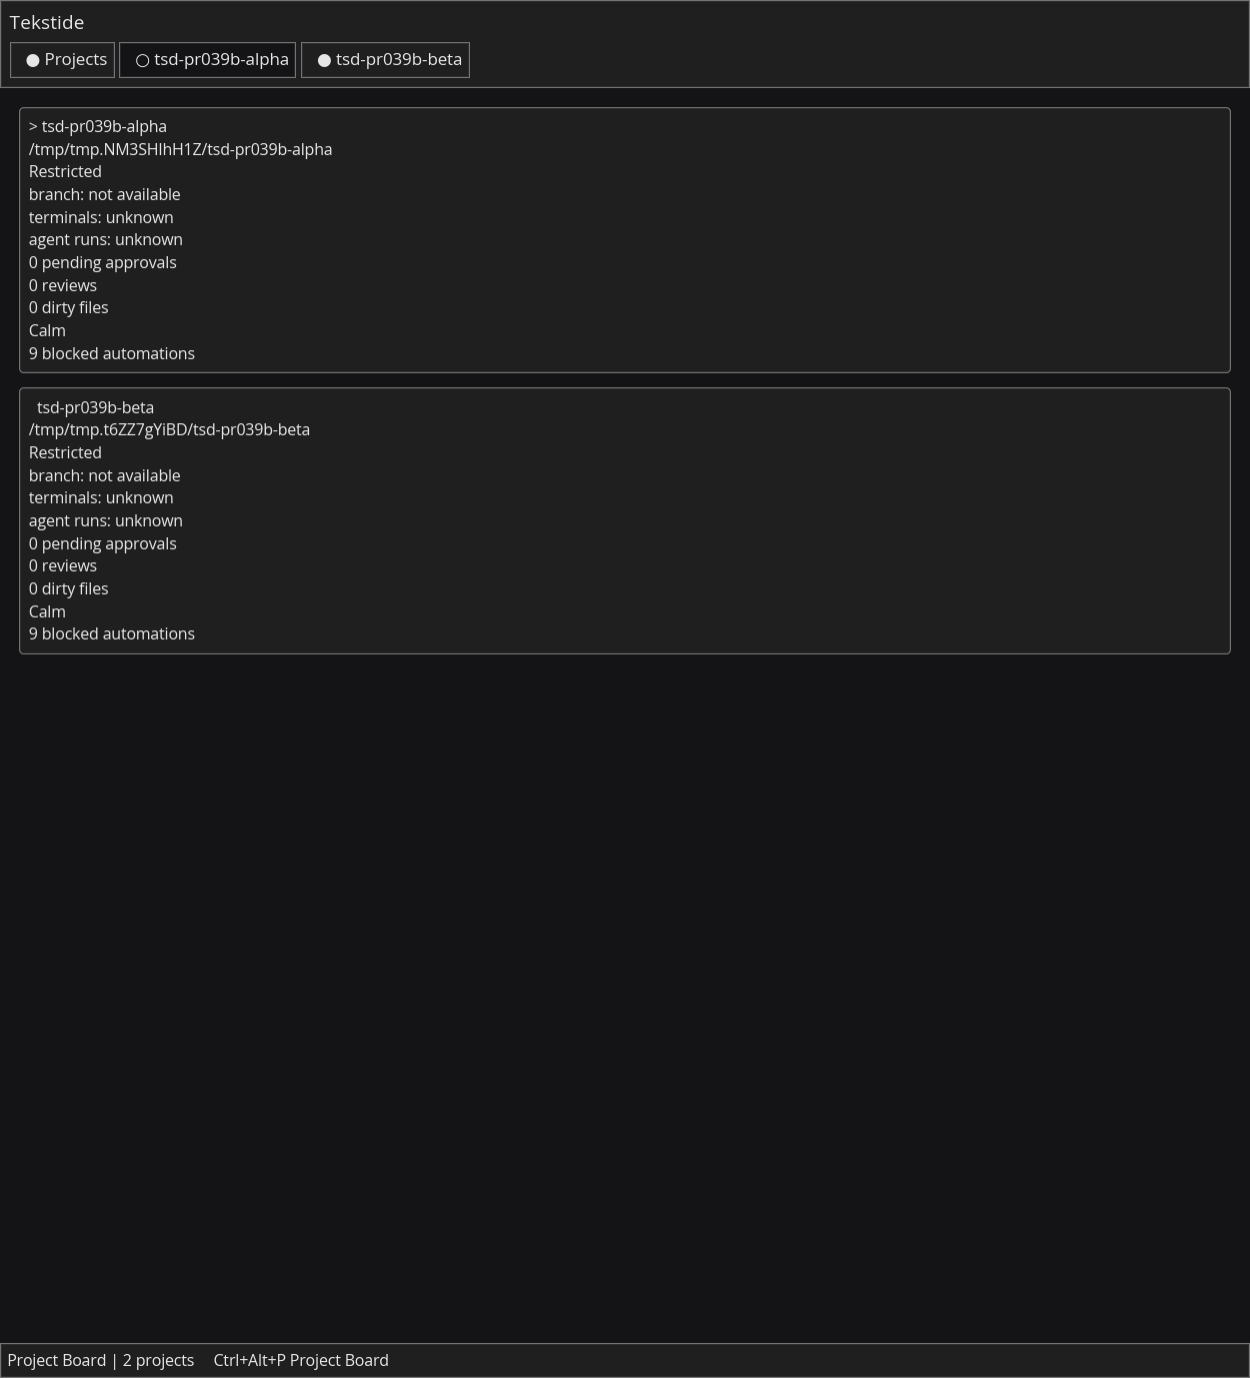
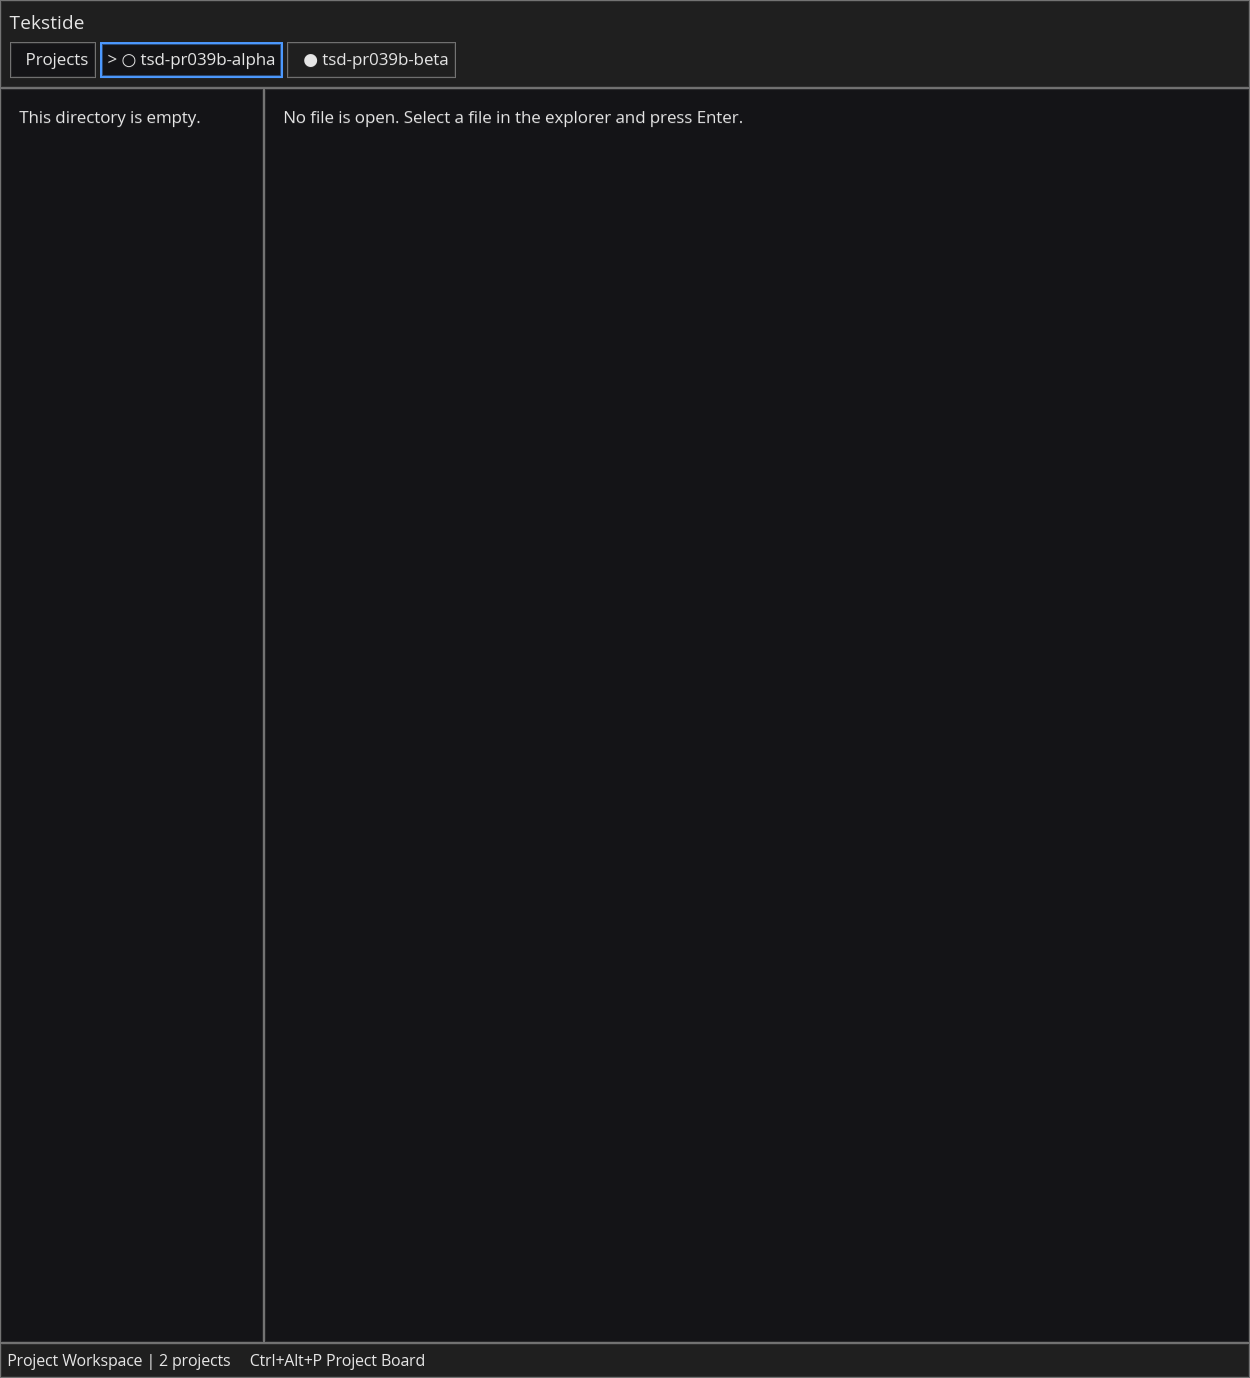
RFC-039 PR-039-B: response 307 -- home tab drops the active-project symbol, required screenshot re-captured
The home tab's ● previously meant a second, different thing (route == ProjectBoard) from
what ● means on every project tab (this is AppState::active_project_id()), so both could
show filled together and read as two active projects. home_tab_label now carries only the
focus marker; 'you are here' still shows through the background-fill channel alone.

Also: the required focused-not-active screenshot did not show what its caption claimed --
the Tab,Tab,ArrowRight sequence had silently had no effect, the same synthetic-focus quirk
already disclosed for the Enter-activation capture but not re-checked here. Re-captured
with the same click-first workaround; all five PR-039-B screenshots re-taken against the
rebuilt binary so they match what actually ships.

Changed region(s): [[0.0, 0.0312, 0.5928, 0.4681], [0.9984, 0.0624, 1.0, 0.9985], [0.0624, 0.9673, 0.3432, 0.9985]]

diff --git a/crates/tekstide/src/shell.rs b/crates/tekstide/src/shell.rs
@@ -4581,8 +4581,7 @@ fn project_tab_strip(state: &State) -> Element<'_, Message> {
     let home_active = state.app_shell.route() == tekstide_core::route::AppRoute::ProjectBoard;
     let home_focused = strip_focused && highlight == 0;
     let home_tab = button(
-        text(home_tab_label(&state.catalog, home_active, home_focused))
-            .size(state.theme.font_size_body()),
+        text(home_tab_label(&state.catalog, home_focused)).size(state.theme.font_size_body()),
     )
     .padding(6)
     .style(tab_active_style(state.theme, home_focused, home_active))
@@ -4642,9 +4641,11 @@ fn tab_active_style(
 /// (a hollow one) otherwise, so a screen or terminal that cannot render
 /// colour still shows which channel means what: `focus_marker`'s `"> "`/
 /// `"  "` prefix for keyboard focus, this one for which project is
-/// actually active. Composed with `focus_marker` by the two callers
-/// ([`project_tab_label`], [`home_tab_label`]), never used alone --
-/// there is always a focus state to render alongside an active one.
+/// actually active. Composed with `focus_marker` by its one caller
+/// ([`project_tab_label`]) -- never used alone, there is always a focus
+/// state to render alongside an active one, and never by
+/// [`home_tab_label`], which is not a project and does not get this
+/// symbol (response 307).
 fn tab_marker(focused: bool, active: bool) -> String {
     let active_symbol = if active { '\u{25CF}' } else { '\u{25CB}' };
     format!("{}{active_symbol} ", focus_marker(focused))
@@ -4687,14 +4688,24 @@ pub(crate) fn project_tab_label(
 /// The permanent leftmost "Projects" tab's own label -- trusted,
 /// catalog-driven text (D1's own workflow 5 name), not filesystem-
 /// derived, so unlike [`project_tab_label`] it is never escaped: there
-/// is nothing untrusted in it to escape. `active` is true exactly when
-/// `route() == ProjectBoard` -- the same "which one are you looking at"
-/// honesty every other active/focus marker in this strip gives a real
-/// project.
-pub(crate) fn home_tab_label(catalog: &Catalog, active: bool, focused: bool) -> String {
+/// is nothing untrusted in it to escape.
+///
+/// Deliberately carries only [`focus_marker`], not [`tab_marker`]'s
+/// `"\u{25CF}"`/`"\u{25CB}"` pair (response 307's own finding): that
+/// symbol's one meaning everywhere else in the strip is "this is
+/// `AppState::active_project_id()`", a fact about a project session.
+/// The home tab is not a project session, so giving it the same symbol
+/// for a different fact ("`route() == ProjectBoard`") reads as a second
+/// active project when the board is showing -- two filled circles
+/// answering two different questions the same way. "You are here" is
+/// still shown, honestly, through [`tab_active_style`]'s own background
+/// fill and border (`project_tab_strip` passes `home_active` there
+/// unchanged) -- just not through the symbol reserved for project
+/// identity.
+pub(crate) fn home_tab_label(catalog: &Catalog, focused: bool) -> String {
     format!(
         "{}{}",
-        tab_marker(focused, active),
+        focus_marker(focused),
         catalog.get("project-tab-strip-home")
     )
 }

diff --git a/crates/tekstide/src/shell/tests.rs b/crates/tekstide/src/shell/tests.rs
@@ -9285,16 +9285,31 @@ fn project_tab_label_truncates_a_long_display_name_with_an_ellipsis_marker() {
 }
 
 /// The home tab's own label is trusted, catalog-driven text -- no
-/// escaping applies (there is nothing untrusted in it), but it still
-/// carries the same marker composition every project tab does.
+/// escaping applies (there is nothing untrusted in it). Unlike a
+/// project tab it carries only the focus marker, deliberately never
+/// `tab_marker`'s active-project symbol (response 307): that symbol
+/// means "this is `AppState::active_project_id()`" everywhere else in
+/// the strip, a claim the home tab -- not a project -- must not make.
 #[test]
-fn home_tab_label_carries_the_catalog_text_and_the_marker() {
+fn home_tab_label_carries_the_catalog_text_and_only_the_focus_marker() {
     let catalog = Catalog::resolve(LocalePreference::default(), Some(&real_locales_dir()));
 
-    let label = super::home_tab_label(&catalog, true, true);
+    let focused = super::home_tab_label(&catalog, true);
+    let unfocused = super::home_tab_label(&catalog, false);
 
-    assert!(label.contains(&catalog.get("project-tab-strip-home")));
-    assert!(label.starts_with("> \u{25CF} "));
+    assert!(focused.contains(&catalog.get("project-tab-strip-home")));
+    assert_eq!(
+        focused,
+        format!("> {}", catalog.get("project-tab-strip-home"))
+    );
+    assert_eq!(
+        unfocused,
+        format!("  {}", catalog.get("project-tab-strip-home"))
+    );
+    assert!(
+        !focused.contains('\u{25CF}') && !focused.contains('\u{25CB}'),
+        "the home tab must never render the active-project symbol: {focused:?}"
+    );
 }
 
 // RFC-039 PR-039-B: switching, and going home -- both mouse- and

diff --git a/rfcs/handoffs/039-interaction-model-and-visible-affordances/qa-evidence.md b/rfcs/handoffs/039-interaction-model-and-visible-affordances/qa-evidence.md
@@ -105,6 +105,19 @@ legible at once is the common case (a tab that is both focused and active) and t
 tab focused, a different tab active) alike -- see `focused-tab-distinct-from-active-tab.png`
 below.
 
+**Response 307's required correction and its own follow-on fix.** The home tab's `active` symbol
+does not mean the same thing a project tab's does. `home_tab_label` no longer calls `tab_marker`
+at all -- it carries only `focus_marker`, never `"●"`/`"○"`. `"●"` means one thing everywhere it
+appears now: "this is `AppState::active_project_id()`", a fact about a project session, which the
+home tab is not. "You are on the board" is still shown, honestly, through `tab_active_style`'s
+background fill alone (`project_tab_strip` still passes `home_active` there unchanged) -- just not
+through the symbol reserved for project identity. Response 307 also caught that
+`focused-tab-distinct-from-active-tab.png` did not show what its own caption claimed (no tab in
+that frame was actually focused) -- the same synthetic-focus quirk described below for the
+Enter-activation capture, hit on a neighbouring capture and not re-checked there. All five
+screenshots in this section were re-captured against the rebuilt binary after both fixes; the
+descriptions below match what is actually in each file.
+
 **`FocusZone::TabStrip` and the reviewed router.** `route_non_modal_input`'s precedence is
 unchanged: global keybinding match, then `Tab`/`Shift+Tab` (shell focus-cycle, never reaches a
 surface), then `terminal_focus` if set, then `RoutedInput::Surface`. `#[non_exhaustive]` has no
@@ -146,9 +159,11 @@ clean.
   distinct (see ablation above).
 - `project_tab_label_escapes_a_bidi_override_in_the_display_name`,
   `an_ordinary_project_tab_name_renders_without_any_escape_marker`,
-  `project_tab_label_truncates_a_long_display_name_with_an_ellipsis_marker`,
-  `home_tab_label_carries_the_catalog_text_and_the_marker` -- PR-039-A's escaping/truncation
-  proofs, carried forward against the renamed, now-focus-aware label functions.
+  `project_tab_label_truncates_a_long_display_name_with_an_ellipsis_marker` -- PR-039-A's
+  escaping/truncation proofs, carried forward against the renamed, now-focus-aware label
+  functions.
+- `home_tab_label_carries_the_catalog_text_and_only_the_focus_marker` -- response 307's fix:
+  proves the home tab's label carries `focus_marker` and never `"●"`/`"○"`.
 - `switch_active_project_tab_pressed_switches_and_enters_the_workspace` /
   `go_to_project_board_tab_pressed_returns_to_the_board` -- both `Message` arms proven directly
   against a real `State`: active project and route both change (or return), together.
@@ -169,42 +184,49 @@ clean.
 `niri msg action screenshot-window`/`wl-paste` capture method every prior slice established.
 
 - `evidence/pr-039-b/before-cold-start-two-tabs.png` -- cold start: `Project Board` route,
-  `alpha` (the auto-activated first project) and `Projects` both show `●` (route is
-  `ProjectBoard` *and* `alpha` is the active project -- two independently true facts, one symbol
-  each), `beta` shows `○`.
+  `alpha` (the auto-activated first project) shows `●`, `beta` shows `○`. `Projects` carries no
+  symbol at all -- only the background-fill "you are here" treatment (visibly lighter than
+  `alpha`'s own background) -- since `"●"` means "active project" and the board is not a project.
 - Real mouse click on the `beta` tab (`xdotool mousemove --sync` + `click 1`):
   `evidence/pr-039-b/after-clicking-beta-tab.png` -- `beta` now `●`, route becomes
   `ActiveProjectWorkspace` (status bar: "Project Workspace | 2 projects"), explorer/editor panes
   visible.
 - Real mouse click on the `Projects` tab:
   `evidence/pr-039-b/after-clicking-projects-home-tab.png` -- route returns to `ProjectBoard`;
-  `Projects` and `beta` both show `●` (`beta` is still the active project, `Projects` is active
-  because the route is `ProjectBoard` -- independence holding under a real click, not only in the
-  unit tests above).
-- Real `Tab`, `Tab` (`xdotool key --clearmodifiers Tab` twice: `MainArea → Sidebar → TabStrip`),
-  then `ArrowRight` (highlight moves off the home tab onto `alpha`):
-  `evidence/pr-039-b/focused-tab-distinct-from-active-tab.png` -- **response 306's required
-  evidence**. `alpha` shows the focus border and `"> ○"` (focused, not active); `beta` shows
-  `"●"` with no border (active, not focused). Both legible at once, from a real keypress sequence,
-  not a constructed `State`.
+  `beta` still shows `●` (still the active project); `Projects` again shows no symbol, only the
+  background fill, now carried by a real click rather than only the unit tests above.
+- Real click on `beta` (making it active), a real click on empty window space (clearing native
+  button focus -- see below), then `Tab`, `Tab` (`xdotool key --clearmodifiers Tab` twice:
+  `MainArea → Sidebar → TabStrip`), then `ArrowRight` (highlight moves off the home tab onto
+  `alpha`): `evidence/pr-039-b/focused-tab-distinct-from-active-tab.png` -- **response 306's
+  required evidence**. `alpha` shows the focus border and `"> ○"` (focused, not active); `beta`
+  shows `"●"` with no border (active, not focused); `Projects` shows neither symbol nor border.
+  Both the focus and active channels legible at once, on different tabs, from a real keypress
+  sequence.
 - From that same highlighted state, real `Return`
   (`xdotool key --window "$WID" --clearmodifiers Return`):
   `evidence/pr-039-b/after-enter-switches-to-highlighted-tab.png` -- `alpha` becomes active (`●`
   and the focus border together) and the route switches to `ActiveProjectWorkspace`, proving the
   strip is keyboard-operable end to end through the real built binary, not only through
   `enter_on_a_highlighted_project_tab_switches_to_that_project`'s equivalent constructed scenario.
-  Getting a clean capture of this took three attempts: the first two, run immediately after the
-  `ArrowRight` capture above without an intervening real click inside the window, produced a
-  pixel-identical "no effect" screenshot despite `xdotool windowfocus --sync` beforehand -- the
-  automated test already proved `handle_tab_strip_key`'s own logic correct for the identical
-  scenario, which localized the discrepancy to live key delivery rather than the handler. The
-  capture above succeeded once preceded by a real mouse click on empty window space (establishing
-  genuine compositor-level input focus) before repeating `Tab, Tab, ArrowRight, Return`. This
-  reads as an `xdotool`/niri/XWayland synthetic-focus quirk in this test harness, not an
-  application defect -- both the unit test and this corrected live capture agree on the same
-  outcome -- but the root cause was not isolated further, since doing so is evidence-gathering
-  tooling, not product behaviour. Noted here rather than silently discarded, per this project's
-  own evidence-disclosure convention.
+
+  Getting clean captures of this and the focused-not-active frame above took real correction,
+  disclosed rather than smoothed over. Response 307 caught that my first
+  `focused-tab-distinct-from-active-tab.png` did not show what its own caption claimed -- no tab
+  in that frame was actually focused, because the `Tab, Tab, ArrowRight` sequence had silently had
+  no effect. Read against the account already written for the Enter capture in this same session
+  (a pixel-identical "no effect" result on the first two attempts, despite `xdotool windowfocus
+  --sync` beforehand), this was the identical quirk hitting a neighbouring capture that had not
+  been re-checked. Both screenshots above were re-taken with the same fix: a real mouse click on
+  empty window space, establishing genuine compositor-level input focus, immediately before the
+  `Tab, Tab, ArrowRight[, Return]` sequence. Both now show exactly what their captions describe.
+  My read is still an `xdotool`/niri/XWayland synthetic-focus delivery quirk in this
+  evidence-gathering harness, not an application defect -- the automated test
+  (`enter_on_a_highlighted_project_tab_switches_to_that_project`) already proved the handler logic
+  correct independent of any live capture -- but the root cause was not isolated further, since
+  that is tooling, not product behaviour. The lesson carried forward: when a quirk is found and
+  worked around in one capture, every capture taken in the same session needs the same check, not
+  just the one where the symptom was first noticed.
 - Process terminated cleanly with `SIGTERM` after capture; no terminal was ever launched this
   session, so `test-process-leak.md`'s defect class does not apply.
 
